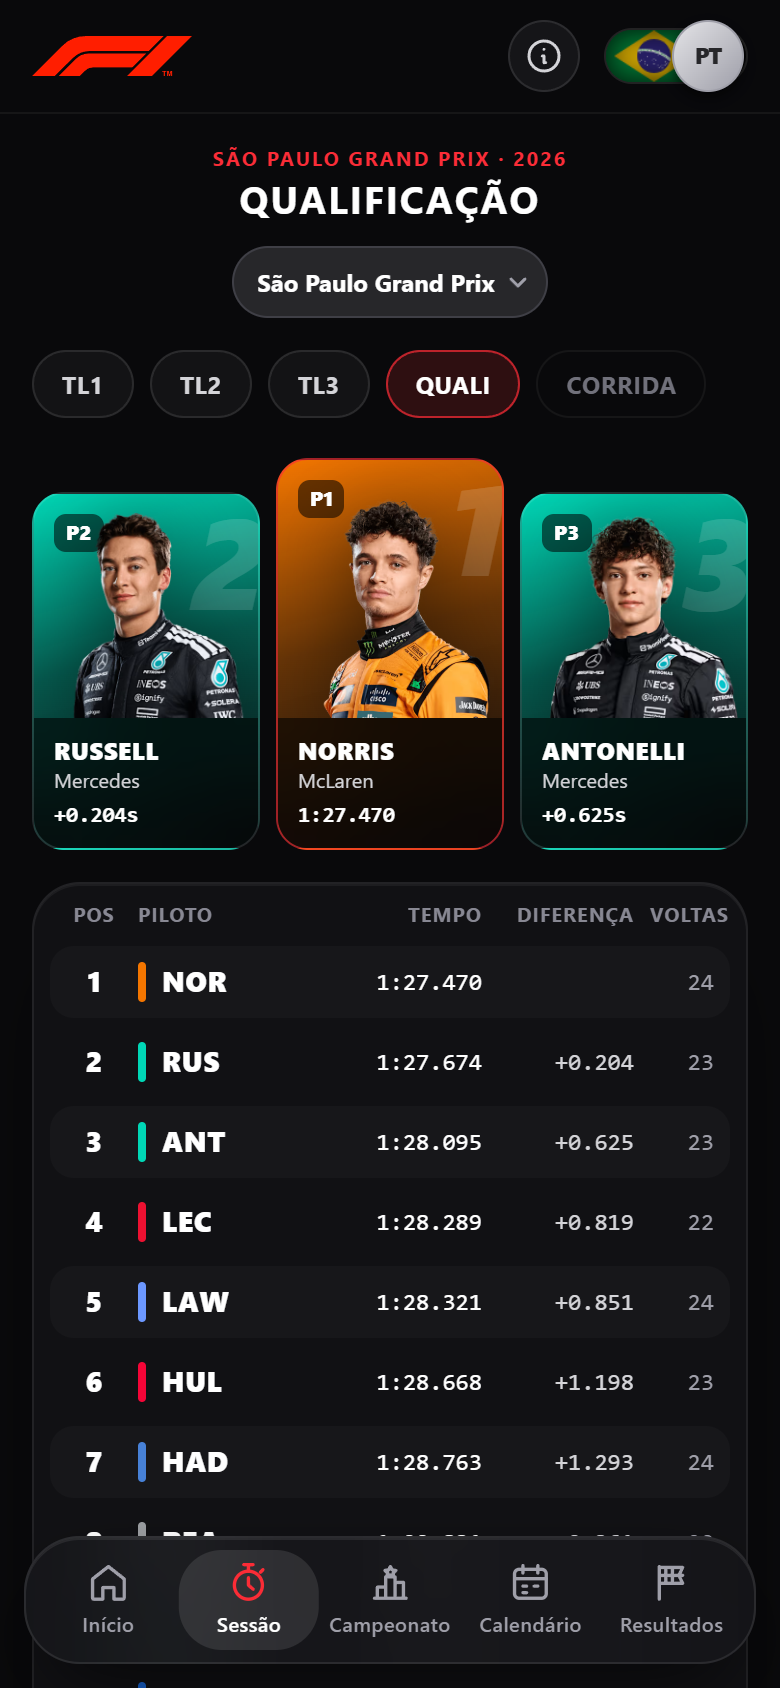
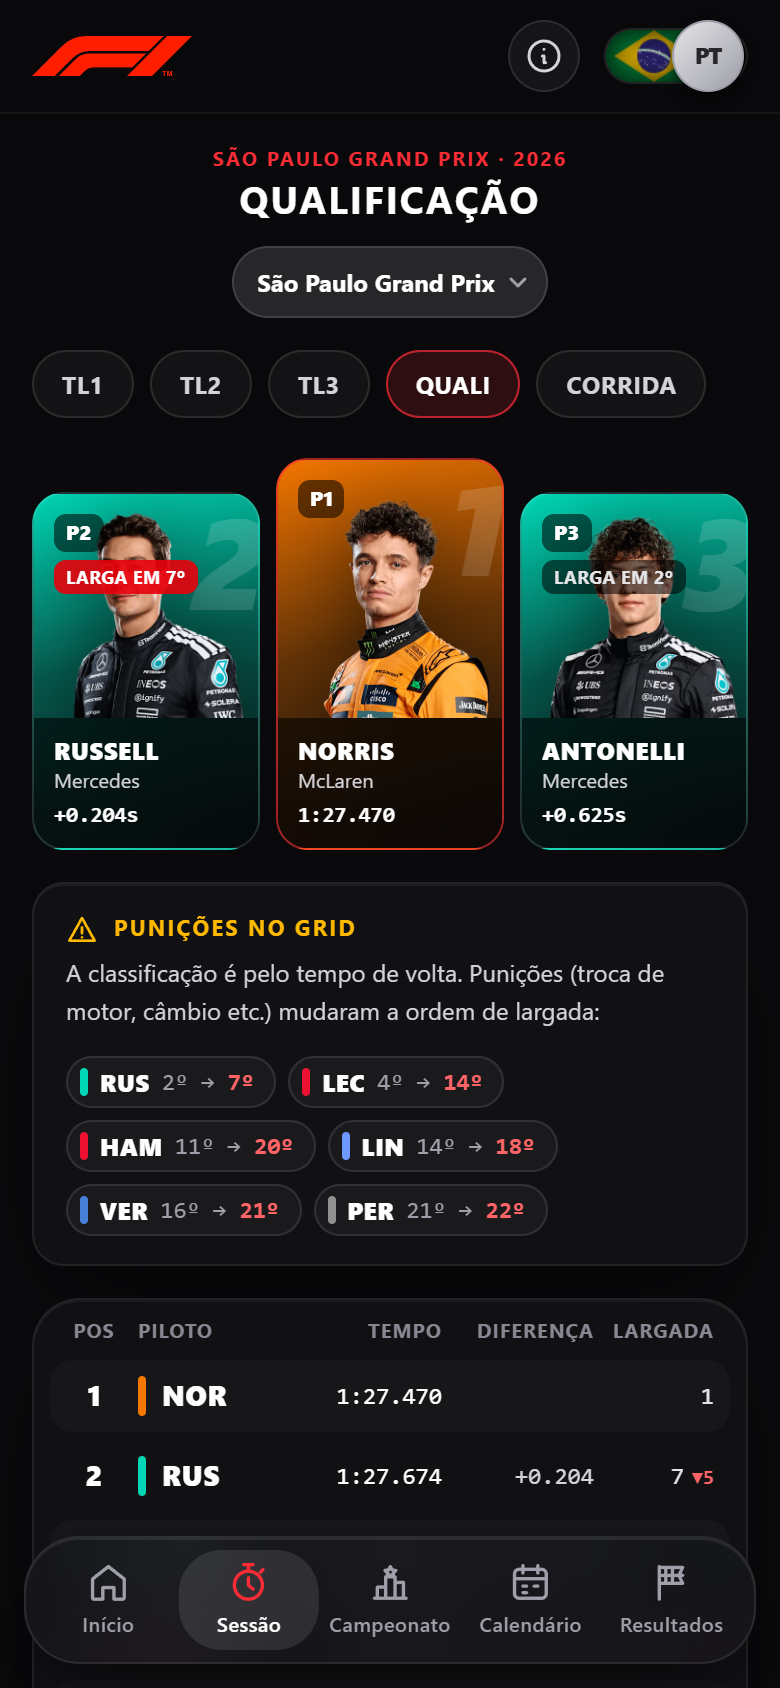
docs: README com os blocos novos da Sessão e o grid de largada

diff --git a/README.md b/README.md
@@ -34,7 +34,7 @@ O ponto de entrada do usuário. Traz informações críticas sobre o próximo ev
 - Contagem regressiva para a **próxima sessão** (TL1, Qualificação, Sprint, Corrida), com estado **AO VIVO** durante as sessões e "bandeira quadriculada" após a corrida. Assim que o fim de semana termina, passa sozinha para a próxima etapa.
 - Programação completa do fim de semana, com sessões concluídas, ao vivo e a próxima destacadas.
 - Previsão do tempo para os dias do GP (Open-Meteo) e os últimos vencedores no circuito — também no celular.
-- **Sobre o circuito** (em telas com altura sobrando): GPs disputados ali, ano do primeiro GP, número de voltas e melhor volta da última edição.
+- **Sobre o circuito:** GPs disputados ali, ano do primeiro GP, número de voltas e melhor volta da última edição (no celular, numa grade 2×2).
 - Layout dinâmico do traçado do circuito em formato SVG com animação de trajeto (com um traçado genérico caso o SVG ainda não exista).
 - Fora de temporada: mostra os campeões e, quando o calendário seguinte sair, a contagem para a primeira corrida.
 
@@ -47,19 +47,29 @@ O ponto de entrada do usuário. Traz informações críticas sobre o próximo ev
 Cada treino, qualificação e corrida desde 2023, com escolha da etapa e da sessão (a escolha fica no endereço, para compartilhar).
 - **Os três primeiros** em cards com a foto do piloto na cor da equipe.
 - **Classificação no estilo da transmissão:** sigla de 3 letras com a barra da cor da equipe no celular e nome completo no computador; melhor volta (a mais rápida em roxo), diferença, voltas e pneu. Na qualificação, Q1/Q2/Q3 com o melhor tempo de cada Q em roxo e a diferença para a pole só entre quem chegou ao mesmo Q (quem caiu antes mostra "Q1" ou "Q2"); na corrida, tempo, diferença e abandonos.
+- **Grid de largada:** onde cada piloto largou de fato. Na qualificação, o aviso "Punições no grid" (ex.: Russell 2º → 7º) e o selo "Larga em 7º" no pódio; na corrida, quantas posições cada um ganhou ou perdeu.
 - **Velocidade máxima** de cada piloto no ponto de medição, em barras na cor da equipe.
+- **Pneus e paradas:** a estratégia de cada piloto numa régua das voltas, pintada com a cor de cada pneu (listrado = pneu usado). Tocar num piloto mostra cada pneu e cada parada (tempo parado e no pit lane).
+- **Linha do tempo:** as mensagens da direção de prova traduzidas e resumidas — punições, investigações, safety car, bandeira vermelha, advertências — com o clima da sessão e as voltas anuladas de cada piloto.
+- **Posições volta a volta** (corrida e Sprint): uma linha por piloto, com safety car e paradas marcados; de início só o vencedor, quem mais subiu e quem mais caiu ficam coloridos, e tocar nas siglas destaca outros.
+- **Comparar voltas:** a melhor volta de dois pilotos, ponto a ponto — mapa da pista pintado com quem foi mais rápido em cada trecho, gráfico de velocidade e, em "mais detalhes", acelerador e freio.
 - **Setores:** volta mais rápida × volta teórica (soma dos melhores setores) e a classificação de cada setor.
+- Cada bloco abre com uma frase de resumo em português comum e tem um ⓘ que explica o que está na tela. Tudo que aparece no computador aparece também no celular.
 - Durante uma sessão ao vivo a aba ganha um ponto vermelho piscando. O plano gratuito do OpenF1 fecha os dados durante as sessões e só libera ~30 min depois do fim: nesse meio-tempo o site mostra o que já tem guardado no banco; se ainda não tiver nada, aparece um aviso com a sessão em andamento, que tenta de novo sozinho a cada minuto e se preenche quando os dados chegam.
 
 <div align="center">
    <img src="docs/sessao-openf1.png" alt="Página Sessão no computador" width="600">
    <img src="docs/sessao-celular.png" alt="Página Sessão no celular" width="180">
+   <br><br>
+   <img src="docs/sessao-corrida.png" alt="Linha do tempo e posições volta a volta" width="600">
+   <br><br>
+   <img src="docs/sessao-comparar.png" alt="Comparação de voltas" width="600">
 </div>
 
 ### 3. Destaques (Highlights)
 - **Pódio do último GP**, com pole, volta mais rápida e o piloto que mais ganhou posições.
 - **Disputa pelo título:** calcula, com o calendário restante, quem ainda tem chance matemática de ser campeão (pilotos e equipes) e avisa quando o título está decidido.
-- **A temporada em números:** vencedores diferentes, abandonos e quem lidera em vitórias, poles, pódios e voltas mais rápidas — em telas grandes, os 3 primeiros de cada categoria, com barras.
+- **A temporada em números:** vencedores diferentes, abandonos e os 3 primeiros em vitórias, poles, pódios e voltas mais rápidas (nas telas grandes, com barras).
 - No computador os três cards ficam lado a lado; no celular viram um carrossel.
 
 <div align="center">
@@ -94,7 +104,7 @@ Uma visão completa e dividida da tabela de pontos atualizada, renderizada com a
 ### 6. Resultados da Temporada (Last Races)
 Um arquivo histórico navegável de todas as corridas que já ocorreram no ano.
 - Navegação rápida entre as etapas usando botões e selects integrados.
-- Abas de **Corrida, Sprint e Qualificação** (Q1, Q2, Q3 e diferença para a pole).
+- Abas de **Corrida, Sprint e Qualificação** (Q1, Q2, Q3, diferença para a pole e onde cada um largou de fato, depois das punições de grid).
 - Destaque visual automático para a "Volta Mais Rápida" (Purple Lap).
 - **Detalhes de cada resultado:** ao clicar em um piloto, uma janela mostra posição de largada, posições ganhas/perdidas, tempo total, pontos e a melhor volta com velocidade média.
 
